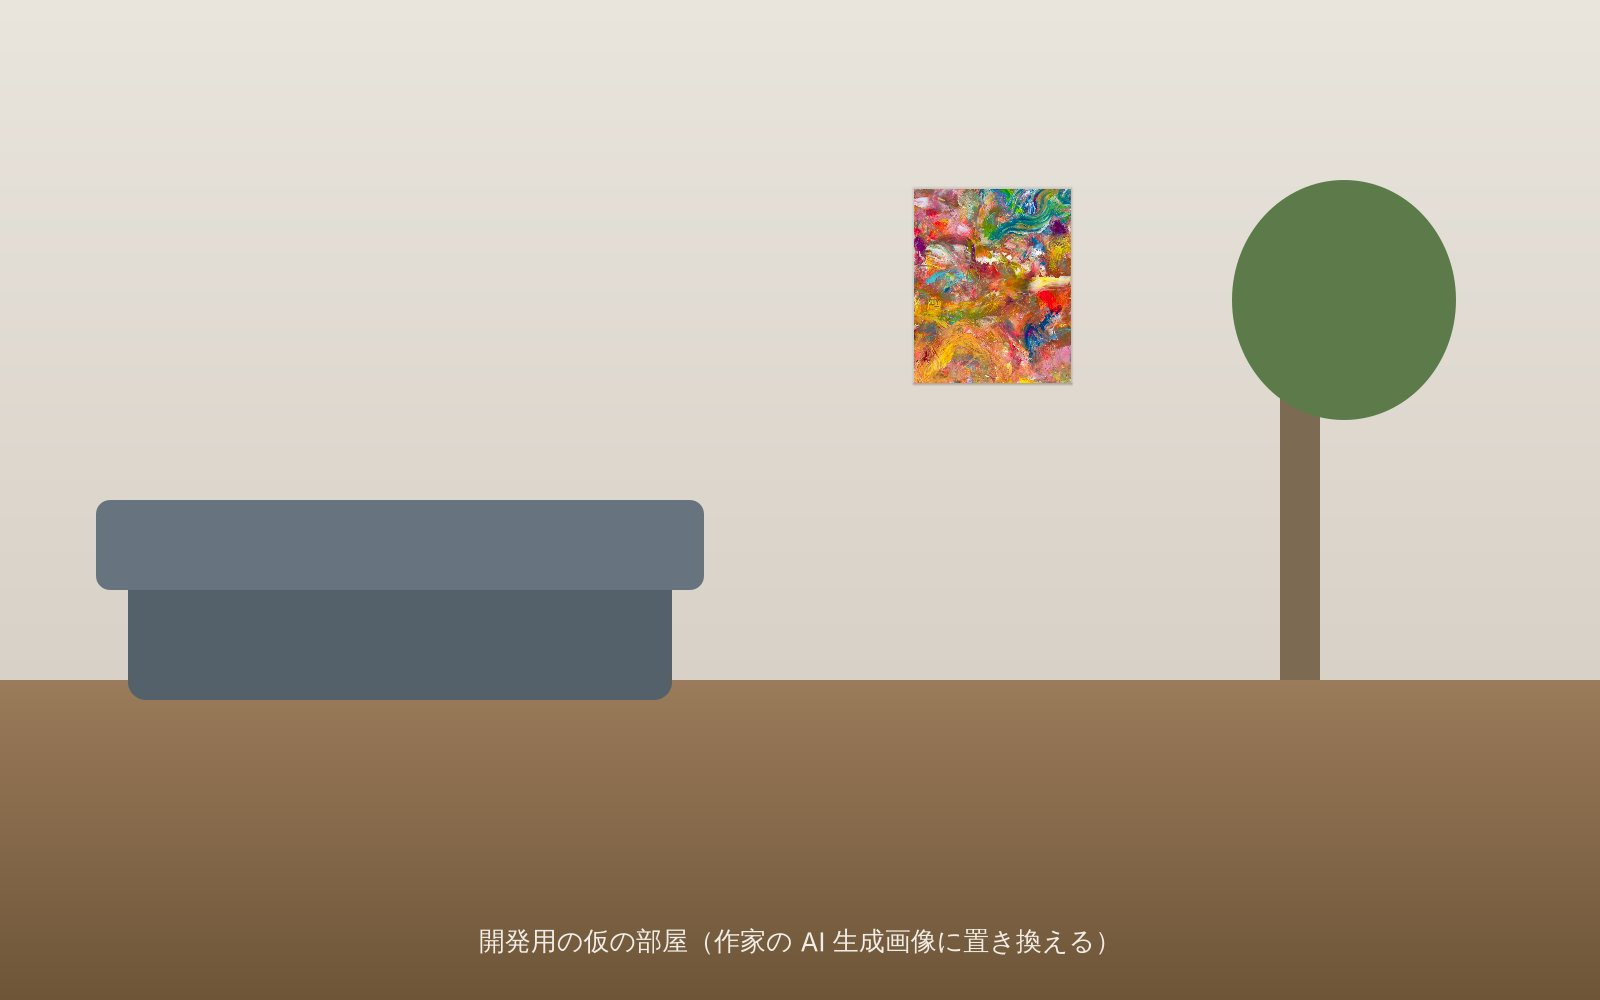
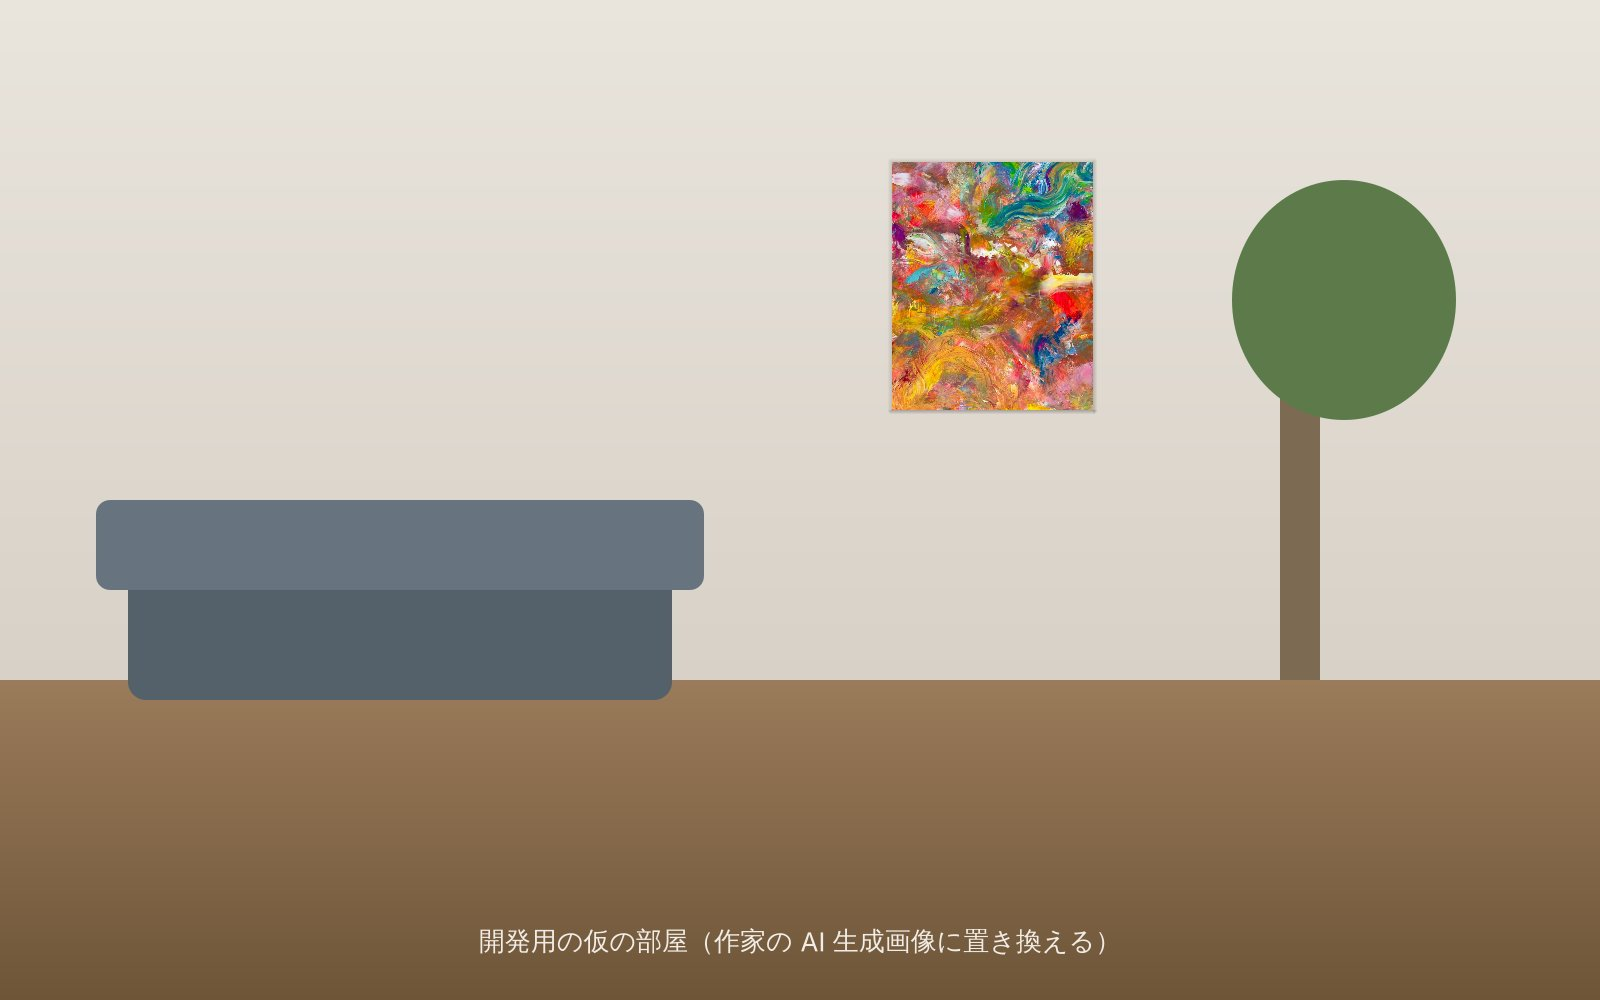
Harmoney を F15（53 × 65.2 cm）に。アセットの基準パスを meta で差し替えられるように
Claude-Session: https://claude.ai/code/session_01XUan4pssoFYGDFEPeyow14

Changed region(s): [[0.5312, 0.155, 0.6875, 0.434]]

diff --git a/src/experience/main.ts b/src/experience/main.ts
@@ -15,7 +15,9 @@ export interface RunOptions {
 const loadTexture = (url: string) => new Promise<THREE.Texture>((res, rej) => new THREE.TextureLoader().load(url, res, undefined, rej));
 
 export async function run(o: RunOptions): Promise<void> {
-  const base = `../../works/${o.workId}/`;
+  // 作品ページは /w/<id>/ にあるので既定は ../../。別の場所に置くとき（アーティファクトなど）は meta で差し替える
+  const assetBase = document.querySelector<HTMLMetaElement>('meta[name="asset-base"]')?.content ?? '../../';
+  const base = `${assetBase}works/${o.workId}/`;
   const space: Space = await fetch(base + 'generated/space.json').then((r) => { if (!r.ok) throw new Error('space.json ' + r.status); return r.json(); });
   const reduced = matchMedia('(prefers-reduced-motion: reduce)').matches;
   const stage = document.getElementById('stage')!;
